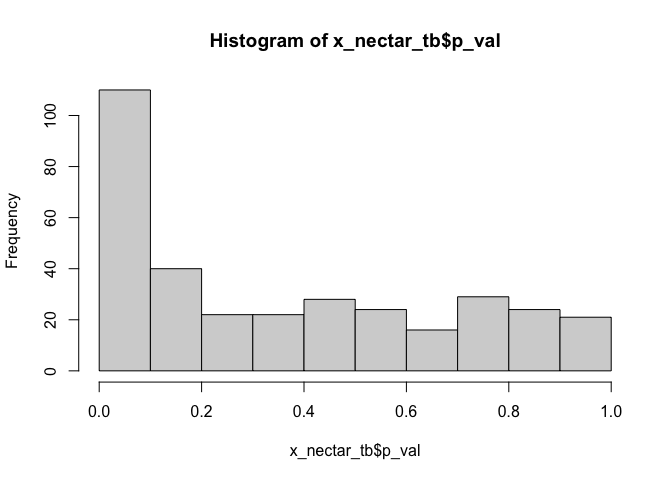
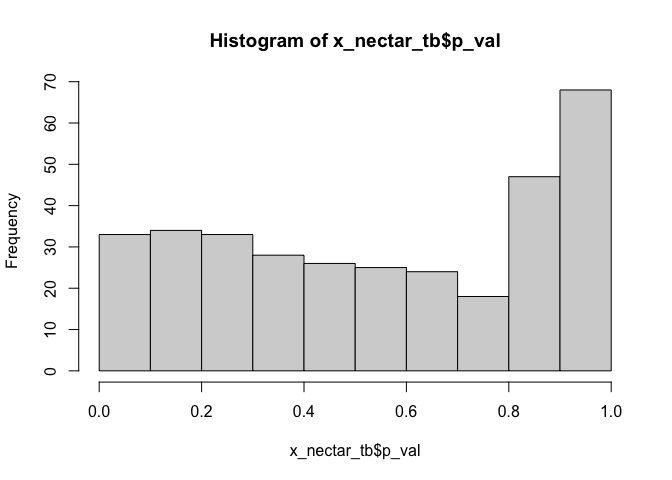
convergentlv binomial

diff --git a/CNEEanalysis_2021/05_perm_phyloacc/convergenceLv_v4.md b/CNEEanalysis_2021/05_perm_phyloacc/convergenceLv_v4.md
@@ -432,13 +432,13 @@ x_nectar = sapply(tmp_pathways, function(s){
   rb_sun = rbinom(N_random_samples, N_cnee_pathway, sunp)
   nectar_bi = cbind(rb_hum, rb_par, rb_honey, rb_sun) %>% as_tibble()
   
-  nectar_bi$perm_gm = apply(nectar_bi, 1, function(x) exp(mean(log(x))))
+  nectar_bi$perm_gm = apply(nectar_bi, 1, function(x) exp(mean(log(x[x>0]))))
   nectar_bi$obs_gm = obs_gm
 
   # for each random sample (row), 
   # check if the perm is greater than or equal to the observed (num. acc. cnees) 
   ind <- ( nectar_bi$perm_gm >= nectar_bi$obs_gm ) 
-  r = sum(ind) # sum up by col, 
+  r = sum(na.omit(ind)) # sum up 
   return(r)
 
 })
@@ -457,15 +457,14 @@ head(x_nectar_tb)
 ```
 
     ## # A tibble: 6 × 5
-    ##   pathway_hsa   value   p_val description_hsa                          total_c…¹
-    ##   <chr>         <int>   <dbl> <chr>                                        <int>
-    ## 1 path:hsa00010  6295 0.0630  Glycolysis / Gluconeogenesis                   689
-    ## 2 path:hsa00030  5683 0.0568  Pentose phosphate pathway                      459
-    ## 3 path:hsa00040 41262 0.413   Pentose and glucuronate interconversions       846
-    ## 4 path:hsa00051  6106 0.0611  Fructose and mannose metabolism                957
-    ## 5 path:hsa00052 11293 0.113   Galactose metabolism                           777
-    ## 6 path:hsa00053   498 0.00499 Ascorbate and aldarate metabolism              358
-    ## # … with abbreviated variable name ¹total_cnees
+    ##   pathway_hsa   value p_val description_hsa                          total_cnees
+    ##   <chr>         <int> <dbl> <chr>                                          <int>
+    ## 1 path:hsa00010 30139 0.301 Glycolysis / Gluconeogenesis                     689
+    ## 2 path:hsa00030 53766 0.538 Pentose phosphate pathway                        459
+    ## 3 path:hsa00040 95616 0.956 Pentose and glucuronate interconversions         846
+    ## 4 path:hsa00051 20900 0.209 Fructose and mannose metabolism                  957
+    ## 5 path:hsa00052 38325 0.383 Galactose metabolism                             777
+    ## 6 path:hsa00053 24654 0.247 Ascorbate and aldarate metabolism                358
 
 ``` r
 hist(x_nectar_tb$p_val)
@@ -501,10 +500,10 @@ ggplot(x_nectar_tb, aes(x = total_cnees, y = p_val)) +
 ``` r
 x_nectar_tb_sig = x_nectar_tb %>% 
   filter(p_val<=0.05)
-nrow(x_nectar_tb_sig) # p_val<= 0.05: 84; p_val<= 0.01: 42
+nrow(x_nectar_tb_sig) # p_val<= 0.05: 20; p_val<= 0.01: 2
 ```
 
-    ## [1] 84
+    ## [1] 20
 
 ## core non-nectar: Binomial
 
@@ -539,13 +538,13 @@ x_nonnectar = sapply(tmp_pathways, function(s){
   rb_swifts = rbinom(N_random_samples, N_cnee_pathway, sw)
   non_nectar_bi = cbind(rb_passerides, rb_lyrebirds, rb_falcons, rb_swifts) %>% as_tibble()
   
-  non_nectar_bi$perm_gm = apply(non_nectar_bi, 1, function(x) exp(mean(log(x))))
+  non_nectar_bi$perm_gm = apply(non_nectar_bi, 1, function(x) exp(mean(log(x[x>0]))))
   non_nectar_bi$obs_gm = obs_gm
 
   # for each random sample (row), 
   # check if the perm is greater than or equal to the observed (num. acc. cnees) 
   ind <- ( non_nectar_bi$perm_gm >= non_nectar_bi$obs_gm ) 
-  r = sum(ind) # sum up by col, 
+  r = sum(na.omit(ind)) # sum up 
   return(r)
 })
 
@@ -563,15 +562,14 @@ head(x_nonnectar_tb)
 ```
 
     ## # A tibble: 6 × 5
-    ##   pathway_hsa   value  p_val description_hsa                          total_cn…¹
-    ##   <chr>         <int>  <dbl> <chr>                                         <int>
-    ## 1 path:hsa00010 25153 0.252  Glycolysis / Gluconeogenesis                    689
-    ## 2 path:hsa00020  2492 0.0249 Citrate cycle (TCA cycle)                       121
-    ## 3 path:hsa00030 29788 0.298  Pentose phosphate pathway                       459
-    ## 4 path:hsa00040 94709 0.947  Pentose and glucuronate interconversions        846
-    ## 5 path:hsa00051 72468 0.725  Fructose and mannose metabolism                 957
-    ## 6 path:hsa00052 93550 0.936  Galactose metabolism                            777
-    ## # … with abbreviated variable name ¹total_cnees
+    ##   pathway_hsa   value p_val description_hsa                          total_cnees
+    ##   <chr>         <int> <dbl> <chr>                                          <int>
+    ## 1 path:hsa00010 28714 0.287 Glycolysis / Gluconeogenesis                     689
+    ## 2 path:hsa00020 45908 0.459 Citrate cycle (TCA cycle)                        121
+    ## 3 path:hsa00030 43228 0.432 Pentose phosphate pathway                        459
+    ## 4 path:hsa00040 99081 0.991 Pentose and glucuronate interconversions         846
+    ## 5 path:hsa00051 74598 0.746 Fructose and mannose metabolism                  957
+    ## 6 path:hsa00052 99817 0.998 Galactose metabolism                             777
 
 ``` r
 hist(x_nonnectar_tb$p_val)
@@ -605,10 +603,10 @@ ggplot(x_nonnectar_tb, aes(x = total_cnees, y = p_val)) +
 ``` r
 x_nonnectar_tb_sig = x_nonnectar_tb %>% 
   filter(p_val<=0.05)
-nrow(x_nonnectar_tb_sig) # p_val<= 0.05: 41; p_val<= 0.01: 21
+nrow(x_nonnectar_tb_sig) # p_val<= 0.05: 29; p_val<= 0.01: 13
 ```
 
-    ## [1] 41
+    ## [1] 29
 
 ## comparison
 
@@ -625,17 +623,21 @@ onlyInNect = x_nectar_tb_sig %>%
 onlyInNect
 ```
 
-    ## # A tibble: 61 × 5
-    ##    pathway_hsa   value     p_val description_hsa                    total_cnees
-    ##    <chr>         <int>     <dbl> <chr>                                    <int>
-    ##  1 path:hsa00053   498 0.00499   Ascorbate and aldarate metabolism          358
-    ##  2 path:hsa00071     0 0.0000100 Fatty acid degradation                     525
-    ##  3 path:hsa00120    36 0.000370  Primary bile acid biosynthesis             192
-    ##  4 path:hsa00220  1213 0.0121    Arginine biosynthesis                      254
-    ##  5 path:hsa00270     0 0.0000100 Cysteine and methionine metabolism         882
-    ##  6 path:hsa00310  1474 0.0147    Lysine degradation                        2373
-    ##  7 path:hsa00330   274 0.00275   Arginine and proline metabolism            972
-    ##  8 path:hsa00380   250 0.00251   Tryptophan metabolism                     1075
-    ##  9 path:hsa00450  1491 0.0149    Selenocompound metabolism                  272
-    ## 10 path:hsa00470   560 0.00561   D-Amino acid metabolism                    281
-    ## # … with 51 more rows
+    ## # A tibble: 14 × 5
+    ##    pathway_hsa   value   p_val description_hsa                           total…¹
+    ##    <chr>         <int>   <dbl> <chr>                                       <int>
+    ##  1 path:hsa00071   202 0.00203 Fatty acid degradation                        525
+    ##  2 path:hsa00270   222 0.00223 Cysteine and methionine metabolism            882
+    ##  3 path:hsa00310  2578 0.0258  Lysine degradation                           2373
+    ##  4 path:hsa00330  3771 0.0377  Arginine and proline metabolism               972
+    ##  5 path:hsa00380  3009 0.0301  Tryptophan metabolism                        1075
+    ##  6 path:hsa00563  4139 0.0414  Glycosylphosphatidylinositol (GPI)-ancho…     708
+    ##  7 path:hsa00620  1863 0.0186  Pyruvate metabolism                           517
+    ##  8 path:hsa00900  3859 0.0386  Terpenoid backbone biosynthesis               464
+    ##  9 path:hsa04115  2219 0.0222  p53 signaling pathway                        1770
+    ## 10 path:hsa04137  4599 0.0460  Mitophagy - animal                           1550
+    ## 11 path:hsa04151  3845 0.0385  PI3K-Akt signaling pathway                   6076
+    ## 12 path:hsa04217  3183 0.0318  Necroptosis                                  1310
+    ## 13 path:hsa04512  2000 0.0200  ECM-receptor interaction                     2176
+    ## 14 path:hsa04622  2253 0.0225  RIG-I-like receptor signaling pathway        1098
+    ## # … with abbreviated variable name ¹total_cnees
